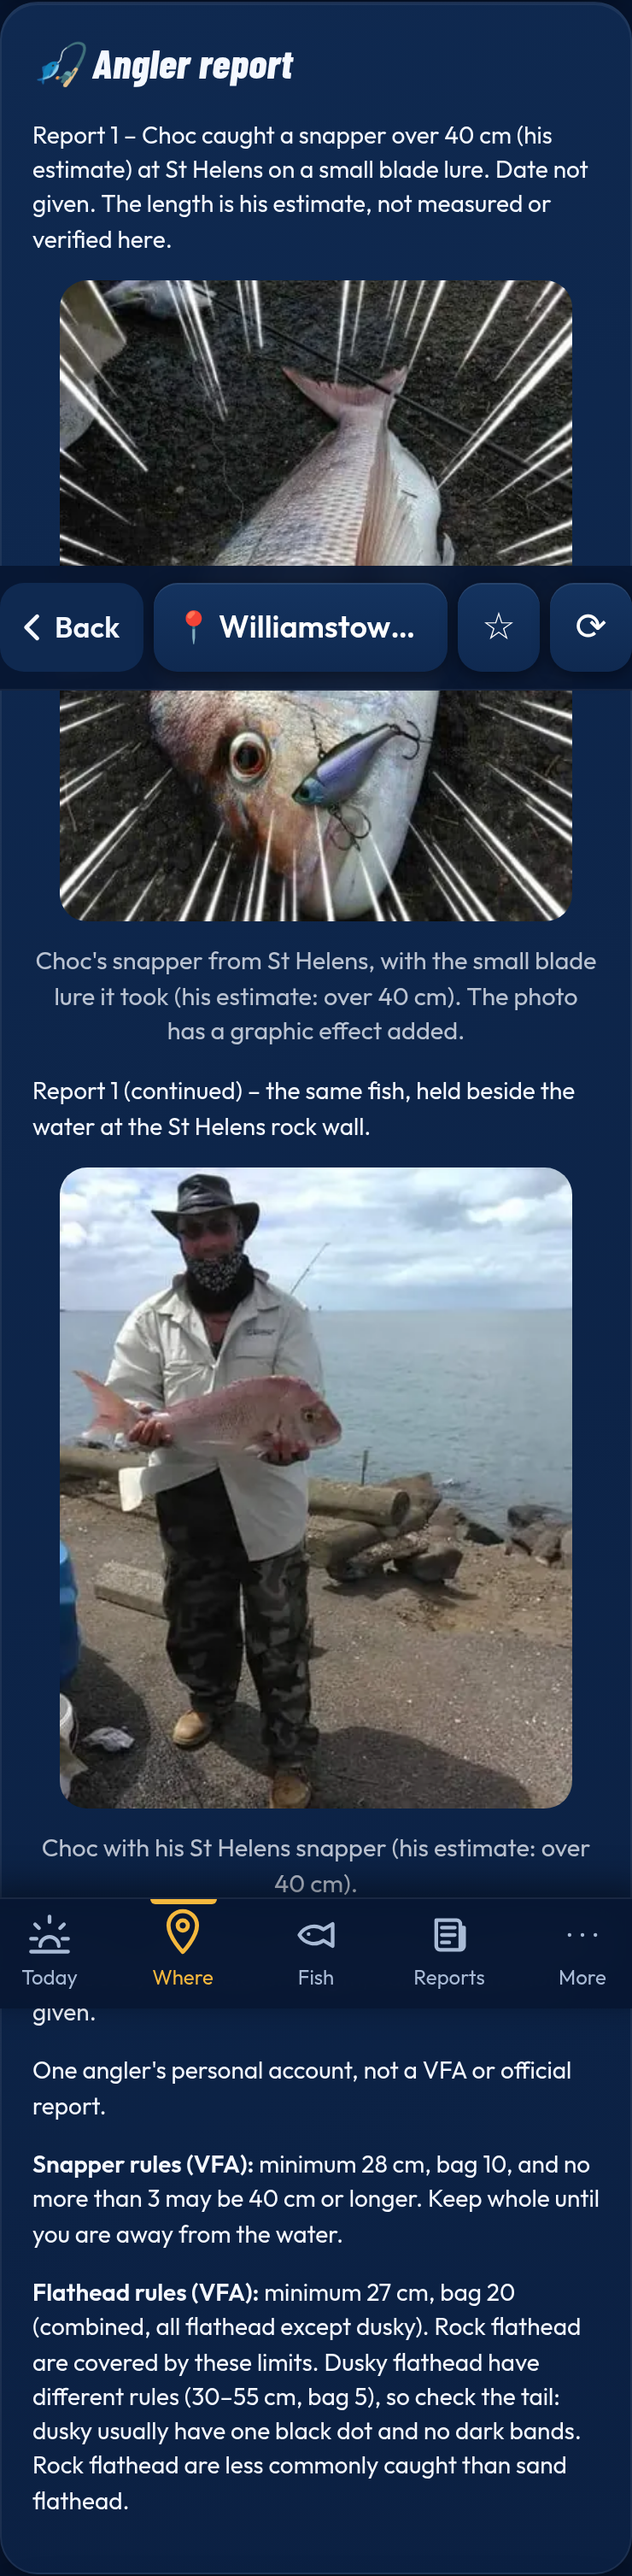
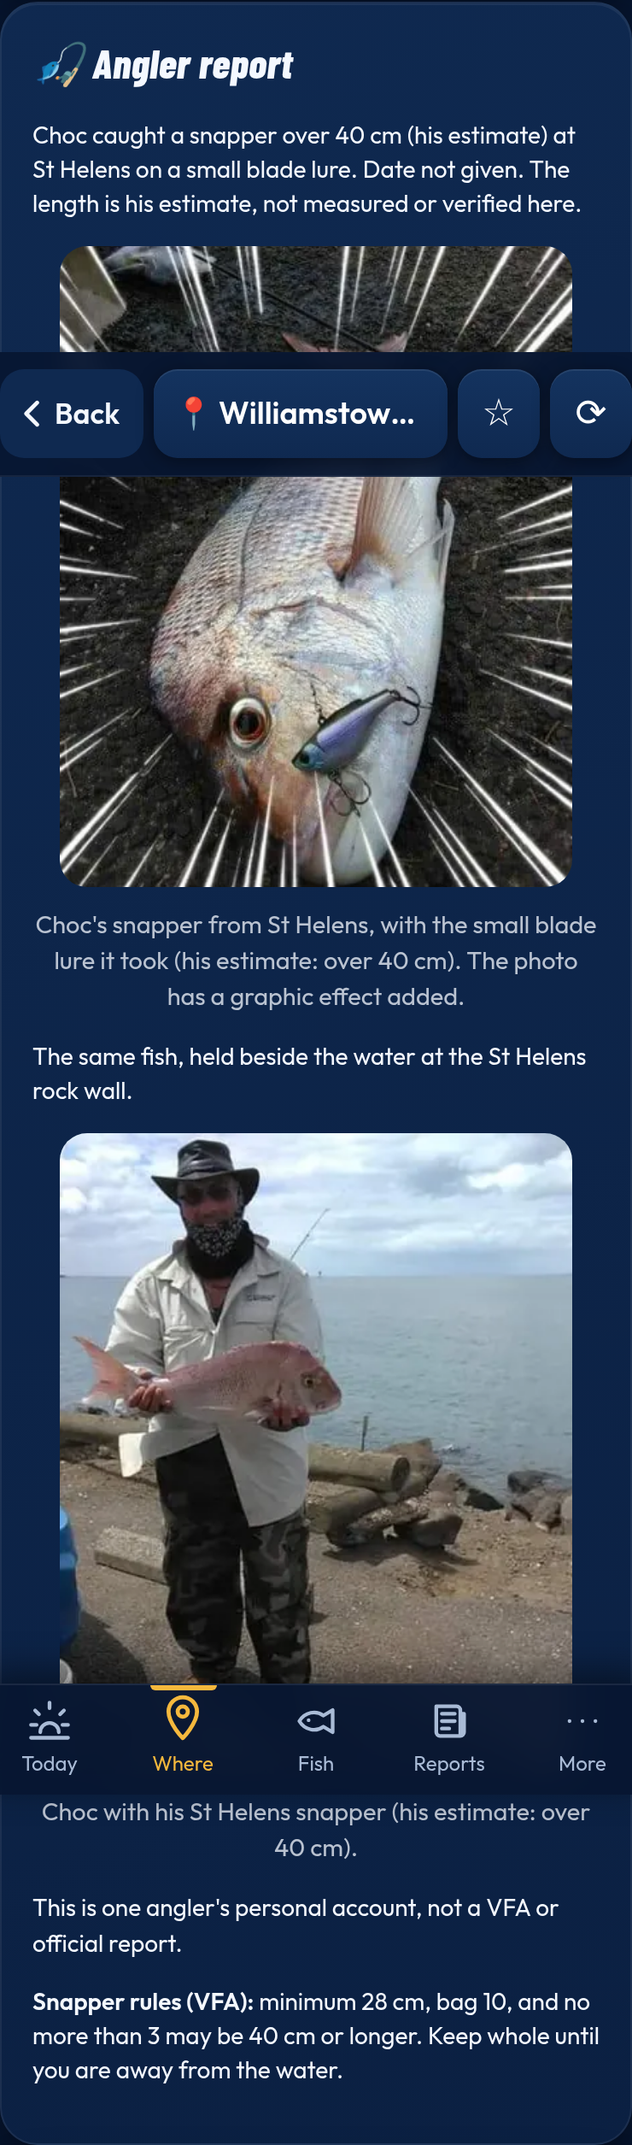
v1.1.10: remove rock flathead report at St Helens

diff --git a/src/fishviews.tsx b/src/fishviews.tsx
@@ -134,8 +134,7 @@ export function SpotView({ spot, place, onBack, onMap, onUse, onSpecies }: { spo
     </section>
     {i?.report && <section className="card"><h2>🎣 Angler report</h2>{i.report.items.map((r) => <div key={r.t}><p className="small">{r.t}</p>{r.photo && <figure className="spotphoto" style={{ marginTop: 8 }}><img src={BASE + r.photo.src} alt={r.photo.cap} width={240} height={r.photo.src.includes("bream") ? 300 : 150} loading="lazy" style={r.photo.src.includes("snapper") ? { aspectRatio: "16/10" } : undefined} /><figcaption>{r.photo.cap}</figcaption></figure>}</div>)}
       <p className="small">{i.report.note}</p>
-      <p className="small"><b>Snapper rules (VFA):</b> minimum 28 cm, bag 10, and no more than 3 may be 40 cm or longer. Keep whole until you are away from the water.</p>{i.report.items.some((r) => /flathead/i.test(r.t)) && <p className="small"><b>Flathead rules (VFA):</b> minimum 27 cm, bag 20 (combined, all flathead except dusky). Rock flathead are covered by these limits. Dusky flathead have different rules (30–55 cm, bag 5), so check the tail: dusky usually have one black dot and no dark bands. Rock flathead are less commonly caught than sand flathead.</p>}
-      {i.report.items.some((r) => /bream/i.test(r.t)) && <p className="small"><b>Black bream rules (VFA):</b> minimum 28 cm, bag 10 (combined with other bream and tarwhine), no maximum size here (the 38 cm maximum is only for the Gippsland Lakes). Keep whole until you are away from the water.</p>}</section>}
+      <p className="small"><b>Snapper rules (VFA):</b> minimum 28 cm, bag 10, and no more than 3 may be 40 cm or longer. Keep whole until you are away from the water.</p>{i.report.items.some((r) => /bream/i.test(r.t)) && <p className="small"><b>Black bream rules (VFA):</b> minimum 28 cm, bag 10 (combined with other bream and tarwhine), no maximum size here (the 38 cm maximum is only for the Gippsland Lakes). Keep whole until you are away from the water.</p>}</section>}
     {i?.rules && !i.fresh && <section className="card"><h2>📏 Rules here</h2>{i.rules.map((r) => <p key={r} className="small">{r}</p>)}<p className="small"><Ext href="https://vfa.vic.gov.au/recreational-fishing/recreational-fishing-guide/catch-limits-and-closed-seasons">VFA size and bag limits ↗</Ext></p></section>}
     {i?.eat && !i.fresh && <section className="card"><h2>🌙 Safety by the water</h2><p className="small">Fish with a friend if you can and tell someone where you are. Keep back from the edge – there is often no rail, the water is deep and cold, and the wall can be slippery. Wear a life jacket on rocks or if you are not a strong swimmer. Keep your gear out of the walkway and take all line and hooks home.</p></section>}
     {i?.fresh && <section className="card"><h2>📏 Rules for the perch here</h2>

diff --git a/src/data/spotinfo.ts b/src/data/spotinfo.ts
@@ -130,8 +130,7 @@ export const EXTRA: [Spot, Info][] = [
     tips: "Local reviews say you can fish from the shore beside the ramp and breakwater, and name snapper (including pinkies), squid, flathead and whiting. We found no VFA listing for this spot, so treat the fish list as local knowledge. Keep clear of boats and the ramp lanes, and take line and hooks home. Check the Reports tab for recent Geelong catches." },
     { area: "bellarine", src: "local", noWind: true,
     report: { items: [
-      { t: "Report 1 – Choc caught a snapper over 40 cm (his estimate) at St Helens on a small blade lure. Date not given. The length is his estimate, not measured or verified here.", photo: { src: "spots/sthelens-lure.webp", cap: "Choc's snapper from St Helens, with the small blade lure it took (his estimate: over 40 cm). The photo has a graphic effect added." } },
-      { t: "Report 1 (continued) – the same fish, held beside the water at the St Helens rock wall.", photo: { src: "spots/sthelens-choc.webp", cap: "Choc with his St Helens snapper (his estimate: over 40 cm)." } },
-      { t: "Report 2 – a different, separate catch: a rock flathead (Choc's ID) at St Helens. Length, bait and date not given." } ],
-      note: "Both reports are one angler's personal accounts, not VFA or official reports." } }],
+      { t: "Choc caught a snapper over 40 cm (his estimate) at St Helens on a small blade lure. Date not given. The length is his estimate, not measured or verified here.", photo: { src: "spots/sthelens-lure.webp", cap: "Choc's snapper from St Helens, with the small blade lure it took (his estimate: over 40 cm). The photo has a graphic effect added." } },
+      { t: "The same fish, held beside the water at the St Helens rock wall.", photo: { src: "spots/sthelens-choc.webp", cap: "Choc with his St Helens snapper (his estimate: over 40 cm)." } } ],
+      note: "This is one angler's personal account, not a VFA or official report." } }],
 ];

diff --git a/public/sw.js b/public/sw.js
@@ -1,4 +1,4 @@
-const C = "ripcast-v22";
+const C = "ripcast-v23";
 self.addEventListener("install", (e) => { self.skipWaiting(); e.waitUntil(caches.open(C).then((c) => c.addAll(["./", "./manifest.webmanifest", "./icon-180.png", "./cover-hero.webp", "./privacy.html"]))); });
 self.addEventListener("activate", (e) => e.waitUntil(caches.keys().then((ks) => Promise.all(ks.filter((k) => k !== C).map((k) => caches.delete(k)))).then(() => self.clients.claim())));
 self.addEventListener("fetch", (e) => {

diff --git a/src/config.ts b/src/config.ts
@@ -1,4 +1,4 @@
 // ⭐ Rename the app here — this one line changes the cover, page title, home-screen name and manifest.
 export const APP_NAME = "Choc's Spot";
 export const TAGLINE = "Plan · Research · Catch";
-export const APP_VERSION = "1.1.9";
+export const APP_VERSION = "1.1.10";
